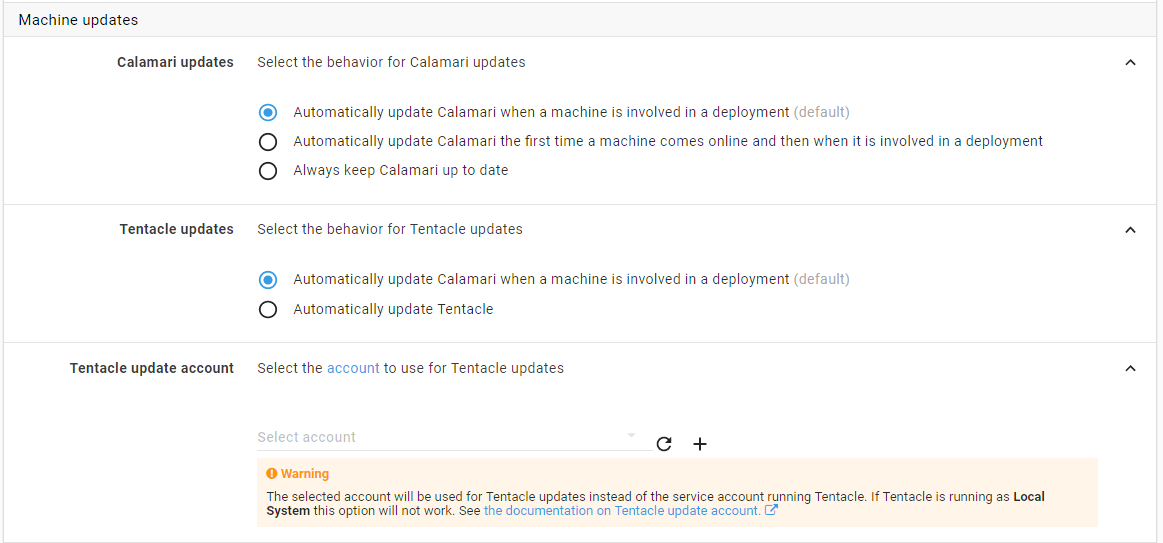
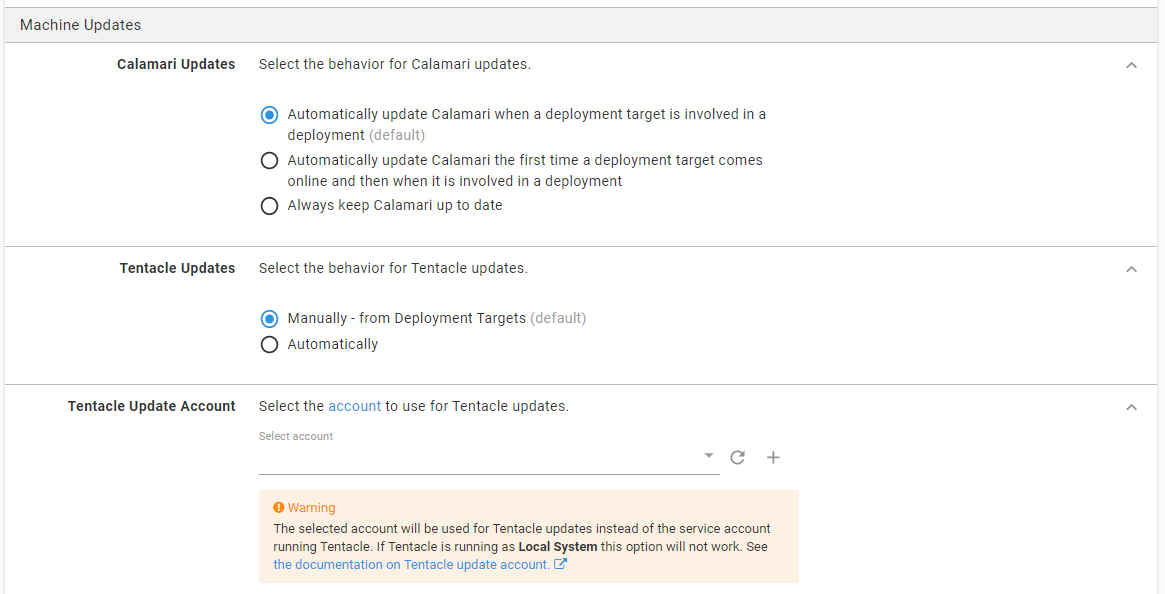
Updated screenshot and text to reflect recent portal changes

diff --git a/docs/infrastructure/deployment-targets/machine-policies.md b/docs/infrastructure/deployment-targets/machine-policies.md
@@ -117,7 +117,7 @@ By default, Calamari will be installed or updated when a machine is involved in 
 - the first time a machine is added to Octopus and then subsequently when it is involved in a deployment.
 - any time Octopus detects Calamari is out of date (after health checks for example).
 
-Tentacle can be toggled to manually or automatically update Tentacle.  If **Automatically update Tentacle** is selected, Octopus will start a task to update Tentacles whenever Octopus detects that there is a pending Tentacle upgrade (after health checks for example). Conversely, Octopus will not automatically start a task to update Tentacle but will prompt to begin a Tentacle update on the environments screen.
+Tentacle can be toggled to manually or automatically update.  If **Automatically** is selected, Octopus will start a task to update Tentacles whenever Octopus detects that there is a pending Tentacle upgrade (after health checks for example). Conversely, Octopus will not automatically update Tentacle but instead will display a prompt to begin a Tentacle update on the Deployment Targets and Environments screens.
 
 ### Maximum number of concurrent upgrades {#MachinePolicies-MaxCalamariUpgrades}
 
